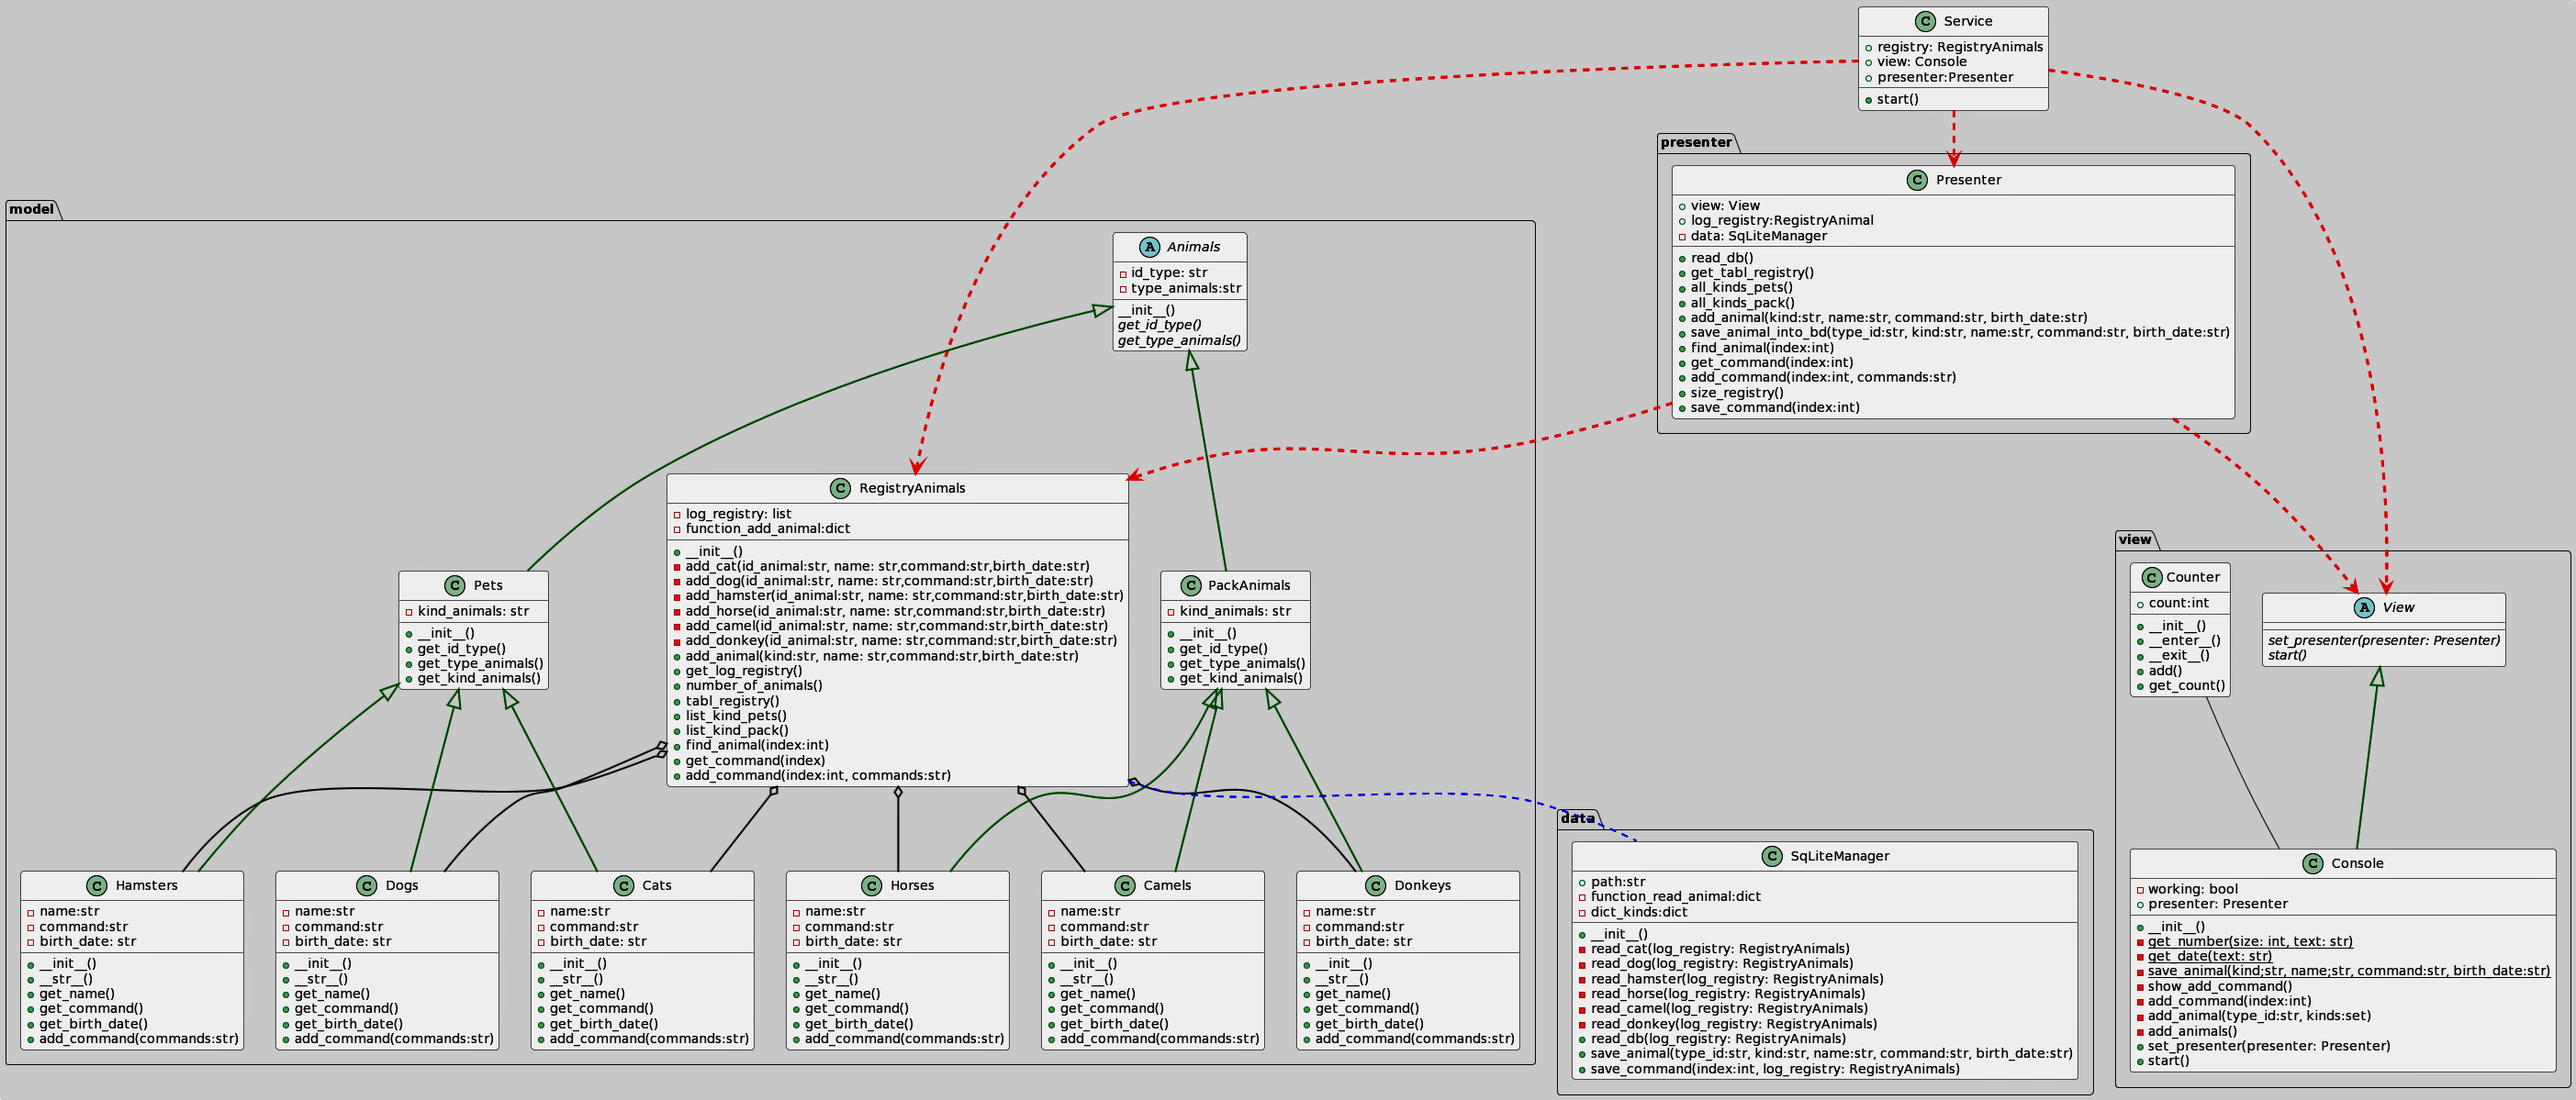
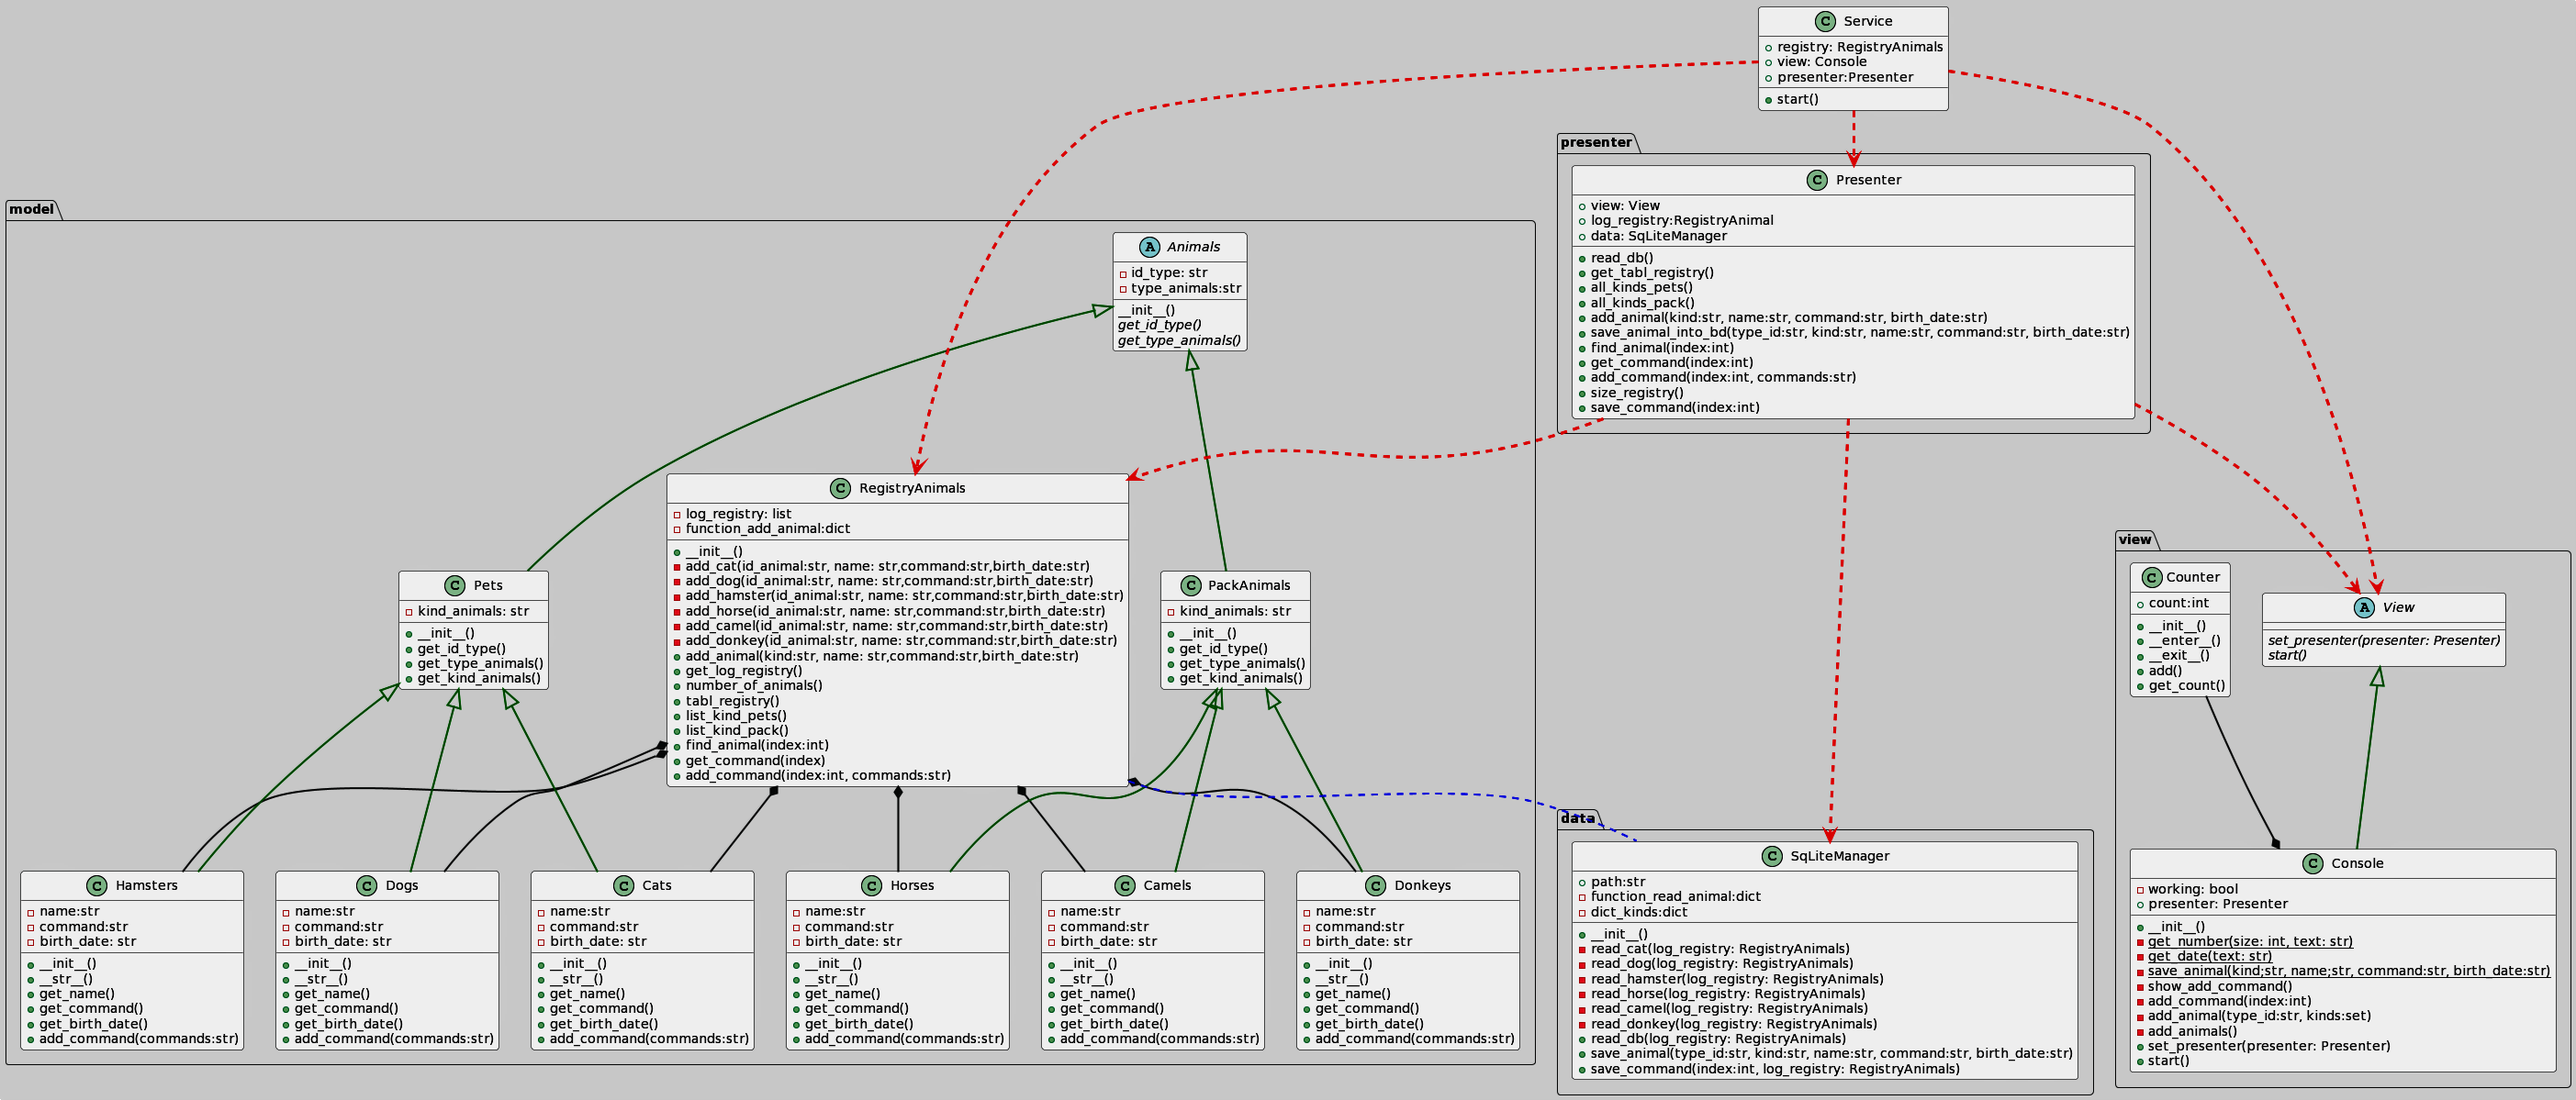
Сhanged diagram

diff --git a/App/presenter/presenter.py b/App/presenter/presenter.py
@@ -1,16 +1,17 @@
 from data.dbsqlite_manager import SqLiteManager
+from view.abstract_view import View
 
 
 class Presenter:
 
-    def __init__(self, view, log_registry, path: str):
+    def __init__(self, view: View, log_registry, data: SqLiteManager):
         self.view = view
         self.log_registry = log_registry
         self.view.set_presenter(self)
-        self.__data = SqLiteManager(path)
+        self.data = data
 
     def read_db(self):
-        return self.__data.read_db(self.log_registry)
+        return self.data.read_db(self.log_registry)
 
     def get_tabl_registry(self):
         return self.log_registry.tabl_registry
@@ -25,7 +26,7 @@ class Presenter:
         self.log_registry.add_animal(kind, name, command, birth_date)
 
     def save_animal_into_bd(self, type_id, kind, name, command, birth_date):
-        return self.__data.save_animal(type_id, kind, name, command, birth_date)
+        return self.data.save_animal(type_id, kind, name, command, birth_date)
 
     def find_animal(self, index):
         return self.log_registry.find_animal(index)
@@ -40,4 +41,4 @@ class Presenter:
         return self.log_registry.number_of_animals()
 
     def save_command(self, index):
-        return self.__data.save_command(index, self.log_registry)
+        return self.data.save_command(index, self.log_registry)

diff --git a/App/service.py b/App/service.py
@@ -1,3 +1,4 @@
+from data.dbsqlite_manager import SqLiteManager
 from model.registry_animals import RegistryAnimals
 from presenter.presenter import Presenter
 from view.console import Console
@@ -7,7 +8,8 @@ class Service:
     def __init__(self):
         self.registry = RegistryAnimals()
         self.view = Console()
-        Presenter(self.view, self.registry, 'human_friends2.db')
+        self.data = SqLiteManager('human_friends2.db')
+        Presenter(self.view, self.registry, self.data)
 
     def start(self):
         self.view.start()
